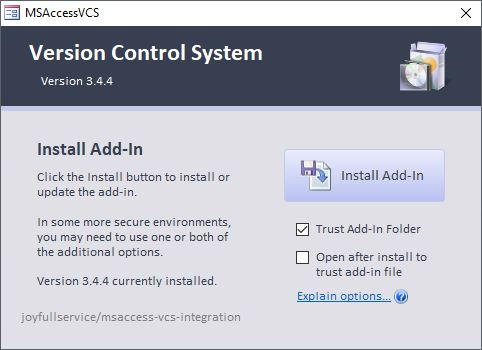
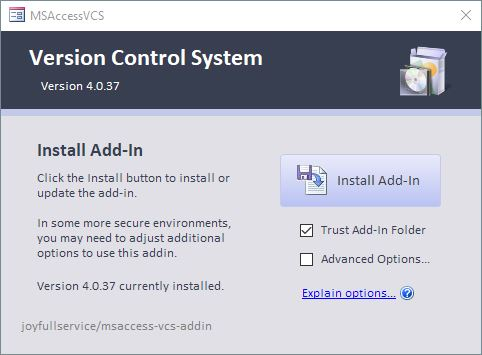
Update Wiki and screenshots to match current released version and add options.

diff --git a/Wiki/Options.md b/Wiki/Options.md
@@ -1,5 +1,5 @@
 
-click **Options** to open the **Options dialog**. Internally options are stored in a `vcs-options.json` file in the path of the exported source code. Options are loaded and used when exporting to source files, or when building a project from source.
+Click **Options** to open the **Options dialog**. Internally options are stored in a `vcs-options.json` file in the path of the exported source code. Options are loaded and used when exporting to source files, or when building a project from source.
 
 ## General Tab
 ![General Options Tab](img/options-general.jpg)
@@ -32,18 +32,20 @@ Note that these options only determine what is *Exported* and saved to the JSON 
 ||*Absolute Path* |You may also use a full path name to a folder. I.e. `W:\Git\Projects\Vehicles Database` 
 ||*Placeholder* |In combination with the above options, you may also use a `%dbName%` [placeholder](https://github.com/joyfullservice/msaccess-vcs-integration/issues/139) to use the database filename in a custom path. I.e. `\src\%dbName%.src\`
 |**Use Fast Save**|**Default: On**|Major performance gain with small changes to large projects. This attempts to only export the objects that have changed since the last export. This especially helps to not have to export forms and reports if they have not changed.
-|**Sanitize Level**|**Default: Aggressive**|Set level for sanitize routines to remove noise. Sanitizing allows you to remove noise from your exported files. Turn off to export raw file outputs. Sanitization routines are checked to ensure most do not affect building of exported files.
-||*None (Off)* | Turn off sanitization, export raw files. These may not import properly, but they may be useful when trying to troubleshoot. <p>_**Note:** Files will still be converted to UTF-8 or System Codepage encoding depending on Access Version in this mode._ <p>**_NOTE:_ If you set Sanitize level to "*None (Off)*", none of the Sanitize Options (Sanitize Color, Strip out publish, etc.) will be used.**
-||*Basic*| Only basic sanitization to ensure reliable rebuilding of files.
-|| *Aggressive*| Remove most exported noise (GUIDs, the like). Removes object GUIDs, name maps, and other data that changes from build to build. (These values are recreated automatically when importing source files.) From a development perspective, these are more like binary artifacts that just add noise to the version control commits, reducing clarity on actual code changes.
-||*Advanced (Beta)*|Remove as much as possible. This may lead to unexpected changes upon rebuilding. Features that are still in testing or confirmed to be temperamental may be introduced here prior to being implemented. **_User beware!_**<p>
-|**Sanitize Colors**|**Default: Basic**|Removes color exports on forms where themes are used, or other situations where the color can be correctly set upon rebuild. These colors export differently in different machines, or different settings and are largely noise. <P> ***NOTE:* The most aggressive options may lead to unexpected color changes on forms!**
-|**Strip out Publish Option**|**Default: On**|Strips out some *Publish to Web* settings from source files that are irrelevant to most projects.
+|**Extract Theme Files**|**Default: Off**|Extract the contents of the `*.thmx` files. Microsoft Office Theme files `*.thmx` are actually zip files containing XML and other files that define the specifics of a theme. You can use Theme Files for form style and color consistency. If you are customizing a theme, you may wish to extract these files so your changes can be tracked in Version Control. <p> **_Note:_** _Extracting Theme files may create noise in your database due to slight variations in rendering machine to machine._
+|**Sanitize Level**|**Default: Standard**|Set level for sanitize routines to remove noise. Sanitizing allows you to remove noise from your exported files. Turn off to export raw file outputs. Sanitization routines are checked to ensure most do not affect building of exported files.
+||*None (Off)* | Turn off sanitization, export raw files. These may not import properly, but they may be useful when trying to troubleshoot. <p>_**Note:** Files will still be converted to UTF-8 or System Codepage encoding depending on Access Version in this mode._ <p>**_NOTE:_ If you set Sanitize level to "*None (Off)*", none of the Sanitize Options will be used.**
+||*Minimal*| Only basic sanitization to ensure reliable rebuilding of files.
+|| *Standard*| Remove most exported noise (GUIDs, the like). Removes object GUIDs, name maps, and other data that changes from build to build. (These values are recreated automatically when importing source files.) From a development perspective, these are more like binary artifacts that just add noise to the version control commits, reducing clarity on actual code changes.
+||*Extended*|Remove as much as possible. This may lead to unexpected changes upon rebuilding. Features that are still in testing or confirmed to be temperamental may be introduced here prior to being implemented. **_User beware!_**<p>
+|**Sanitize Colors**|**Default: Minimal**|Removes color exports on forms where themes are used, or other situations where the color can be correctly set upon rebuild. These colors export differently in different machines, or different settings and are largely noise. <P> ***NOTE:* The most aggressive options may lead to unexpected color changes on forms!**
 |**Save Printer Settings**|**Default: On**|Saves a copy of the print configuration for reports and forms. This is especially useful when you are using specific printer settings. The output is stored in human-readable json. By default, page orientation and paper size are saved with each report, but additional options are also available. <details><summary>Show Advanced Printer Options...</summary> ![Printer Settings Options Screen Image](img/options-printer-settings.jpg)<p></details>
  |**Save Query SQL**|**Default: On**|In addition to the Access object, this option exports a copy of just the SQL code from queries. I find this much more readable than the source of the Access Object when reviewing what I actually changed on the SQL side. (The Access object includes other information relating to the layout of the query designer.)
 |**Save Table SQL**|**Default: On**|In addition to the Access object, this creates a SQL statement like what you would use to create the table. Here again I find this easier to see at a glance what changed in the actual structure of the table between versions.
-|**Extract Theme Files**|**Default: Off**|Extract the contents of the `*.thmx` files. Microsoft Office Theme files `*.thmx` are actually zip files containing XML and other files that define the specifics of a theme. If you are customizing a theme, you may wish to extract these files so your changes can be tracked in Version Control.
-|**Use git integration**|**Default: Off** |Work in Progress, only part of dev at the moment.
+|**Format SQL**|**Default: On**|While exporting SQL for Tables and Queries attempt to format the SQL using common indentation and conventions. See [Issue #426](https://github.com/joyfullservice/msaccess-vcs-addin/issues/426) for some additional discussion and information.
+|**Split Layout from VBA**|**Default: On**|Split Forms and Reports into a layout and code files. This can improve readability and reduce code noise when developing code only changes. <p> **_Note:_** If you also select `Save Printer Settings` an additional printer setting `.json` file will be exported as well; this option is separate from printer exports. <p> **Note:** See [Split Files Wiki page](https://github.com/joyfullservice/msaccess-vcs-addin/wiki/Split-Files) for additional documentation on the feature and how to migrate to it if your source code did not start with this option set.
+||_On_|The layout and colors of Forms and Reports will be exported to a `.bas` file and the code components will be exported to `.cls` file.
+||_Off_|Forms and reports will be exported as a single `.bas` file.
 |**Run Sub Before Export**|**Default: [Blank]**|Run a VBA subroutine before exporting the source code. This can be used to clean up temporary data, mask sensitive information, or anything else you want to do. This will be called using  `Application.Run`.
 |**Run Sub After Export**|**Default: [Blank]**|Similar to the option above, this allows you to specify a VBA subroutine to run *after* exporting the source code.
 
@@ -52,9 +54,13 @@ Note that these options only determine what is *Exported* and saved to the JSON 
 
 The Table Data tab allows you to selectively include certain tables from which to include table ***data*** in version control. The *structure* of the tables is already being saved, but this gives you the additional option of saving the *data* itself.
 
-An example of where you might use this would be a table that defines options or settings in your database application. You might want to track when these settings change. Another example would be a `USysRibbons` table that defines the layout of a custom application ribbon.
+The dialog box shows tables in the database. If the column does not show an option in *Export As* the data is not exported for that table. The example screenshot shows the tables in the Addin.
+
+An example of where you might use this would be a table that defines options or settings in your database application. You might want to track when these settings change. Another example would be a `USysRibbons` table that defines the layout of a custom application ribbon. Note `USysRibbons` is stored by default.
 
 The concept here is that you are selecting the table from which you want to save data, choosing the format to use, and clicking Update to save the changes.
+
+**Note:** See [This FAQ](https://github.com/joyfullservice/msaccess-vcs-addin/wiki/FAQs#how-do-i-also-export-data-from-all-the-tables-in-my-database) for discussion on exporting all tables. Putting production data into version control may have significant PII/Cybersecurity/other consequences and is generally frowned upon.
 
 |Setting <img width = 175> |**Default** <p> *(Setting)*|Description
 |-|:-:|:-
@@ -63,11 +69,20 @@ The concept here is that you are selecting the table from which you want to save
 |**Show Other**|**Default: Off**|List table names that are saved in the options, but do not exist in the current database. You can also manually add table names to your `vcs-options.json` file. (Add a table through the interface first, and use the same syntax.)
 |**Selected Table**||This highlights which table you have selected to set the export format. To add a table that is not listed, click the [*Other...*](#table-data) link.
 |Selected Table: **<u>Other...</u>**||Click [*Other...*](#table-data) to enter a table name that doesn't exist in the database but you want to export if found.
-|**Data to Export**|**Default: Tab Delimited**|Select the format to use for the exported data.
+|**Export As**|**Default: Tab Delimited**|Select the format to use for the exported data.
 ||*Tab Delimited*|Separate values with tab character. This is a good format to use when importing to Microsoft Excel, or reading the values in Version Control files.
-||*XML Format*|Select this option for the most complete and robust representation of the data. It is harder to read in source files, but should import back in to accurate recreate the original data.
-||*No Data*|Don't save data for this table.
-|**Update**||Save output specification changes for the selected table. You should see the Save Data column update in the list of tables when you click the Update button.
+||*XML Format* (Suggested)|Select this option for the most complete and robust representation of the data. It is harder to read in source files, but should import back in to accurate recreate the original data.
+||*No Data* (BLANK) |Don't save data for this table.
+|**Other Table Name**||Enter a table name to directly save output specification changes for the table. You should see the Save Data column update in the list of tables when you click the Update button. See [Issue 250](https://github.com/joyfullservice/msaccess-vcs-addin/issues/250) for additional discussion on this feature.
+|**Export As**||Select the export format to export table.
+
+### Default Tables
+The following tables are added to the default list, but can be removed (if you desire...we strongly suggest you keep them).
+
+   | Table Name   | Type | Explanation  
+   |-|-|-
+   | `USysRegInfo` |System | Stores registry information about Access (such as installed tooling). Exports as _Tab Delimited_.
+   | `USysRibbons` |System | Stores custom ribbon information. Exports as _Tab Delimited_.
 
 **NOTE:** The following tables should not be added to the export list, as they are already handled by this tool elsewhere.
 
@@ -99,5 +114,6 @@ These affect your system at large; not just the currently open Access Project.
 |**Save as Default**|Save the current options as default for new projects. Anytime you export source and a `vcs-options.json` file does not already exist, it will use the default options you have specified.
 |**Restore Defaults**|In the current project (open database), restore options to default values based on saved system defaults.
 |**Clear Defaults**|Reset options to default the settings specified in the add-in source code. If you click this button, then the **Save as Default** button, it will reset all user customizations to the default options.
+|**Open Install Folder**|Opens the directory the Addin is installed in. This can be handy to verify installation location, especially if your environment requires you to install in a non-standard location. See [Installation](https://github.com/joyfullservice/msaccess-vcs-addin/wiki/Installation) for more information.
 |***Remove Add-In***
 |**Uninstall**|Uninstalls the add-in from your user profile, including all saved defaults and encryption keys. <p> [Click here for Install / Uninstall Instructions](Installation)

diff --git a/Wiki/Installation.md b/Wiki/Installation.md
@@ -11,8 +11,18 @@
 
 |Setting <img width = 175> |**Default** <p> *(Setting)*|Description
 |-|:-:|:-
-|**Trust Add-In Folder**|**Default: On**|During installation, the VCS Addin install folder will be added as a trusted location in Microsoft Access/Office. This allows Access to load the Add-In correctly in some protected setups, and will enable faster loading in others. The install location is `C:\Users\%username%\AppData\Roaming\MSAccessVCS\`
-|**Open after install to trust add-in file**|**Default: Off**|In some protected computing environments (I.e. Government, Banking), the Add-In must be opened from the install location to be properly trusted. This option will open the add-in file immediately after install, and give you the opportunity to trust the file.
+|**Trust Add-In Folder**|**Default: On**|During installation, the VCS Addin install folder will be added as a trusted location in Microsoft Access/Office. This allows Access to load the Add-In correctly in some protected setups, and will enable faster loading in others. The default install location is `C:\Users\%username%\AppData\Roaming\MSAccessVCS\`
+|**Advanced Options**|**Default: Off**|In some protected computing environments you may need to select additional options. See below for more details.
+
+![Install Form Image](img/install-AdvancedOptions.jpg)
+
+|Setting <img width = 175> |**Default** <p> *(Setting)*|Description
+|-|:-:|:-
+|**Use Ribbon Addin**|**Default: On**|With Version 4 and up the addin and most features can be directly launched with a custom ribbon. 
+||_On_|Install the ribbon and load to Access's ribbon. The ribbon will automatically load when Access loads, making launching version control much simpler.
+||_Off_|Do not install the Ribbon. You can still load the Addin after installation by going to [Database Tools]>[Add-Ins]>[VCS Open] or [VCS Export All Source].
+|**Open add-in after installing to trust the add-in file**|**Default: Off**|In some protected computing environments (I.e. Government, Banking), the Add-In must be opened from the install location to be properly trusted. This option will open the add-in file immediately after install, and give you the opportunity to trust the file.
+|**Install Folder**||By default, the addin will be installed to `C:\Users\%username%\AppData\Roaming\MSAccessVCS\`. If you need to select an alternate location for installation due to your development environment, security settings, etc., you can change the installation Folder. <p> **WARNING: You MUST _completely uninstall_ the Addin prior to changing the installation folder. Failure to do this may lead to unexpected issues and difficulty removing the addin.**
 
 # Uninstall
 [Click here for Uninstall Instructions](<Options#Remove Add-In>)

diff --git a/Wiki/Supported-Objects.md b/Wiki/Supported-Objects.md
@@ -66,7 +66,7 @@ The *Testing* column indicates whether a test item and testing code has been cre
 |Relationships            |✔|✔|clsDbRelation
 |Nav. Pane Groups         |✔|✔|clsDbNavPaneGroup
 |Embedded Office Theme(s) |✔|✔|clsDbTheme
-|CommandBars              |||
+|CommandBars              |❌<p>(yet)|❌<p>(yet)|See [Discussion 478](https://github.com/joyfullservice/msaccess-vcs-addin/discussions/478) for more details.
 |💼 **VBE PROJECT**
 |Project Properties       |✔|✔|clsDbVbeProject
 |Compilation Arguments    |✔|✔|clsDbVbeProject
